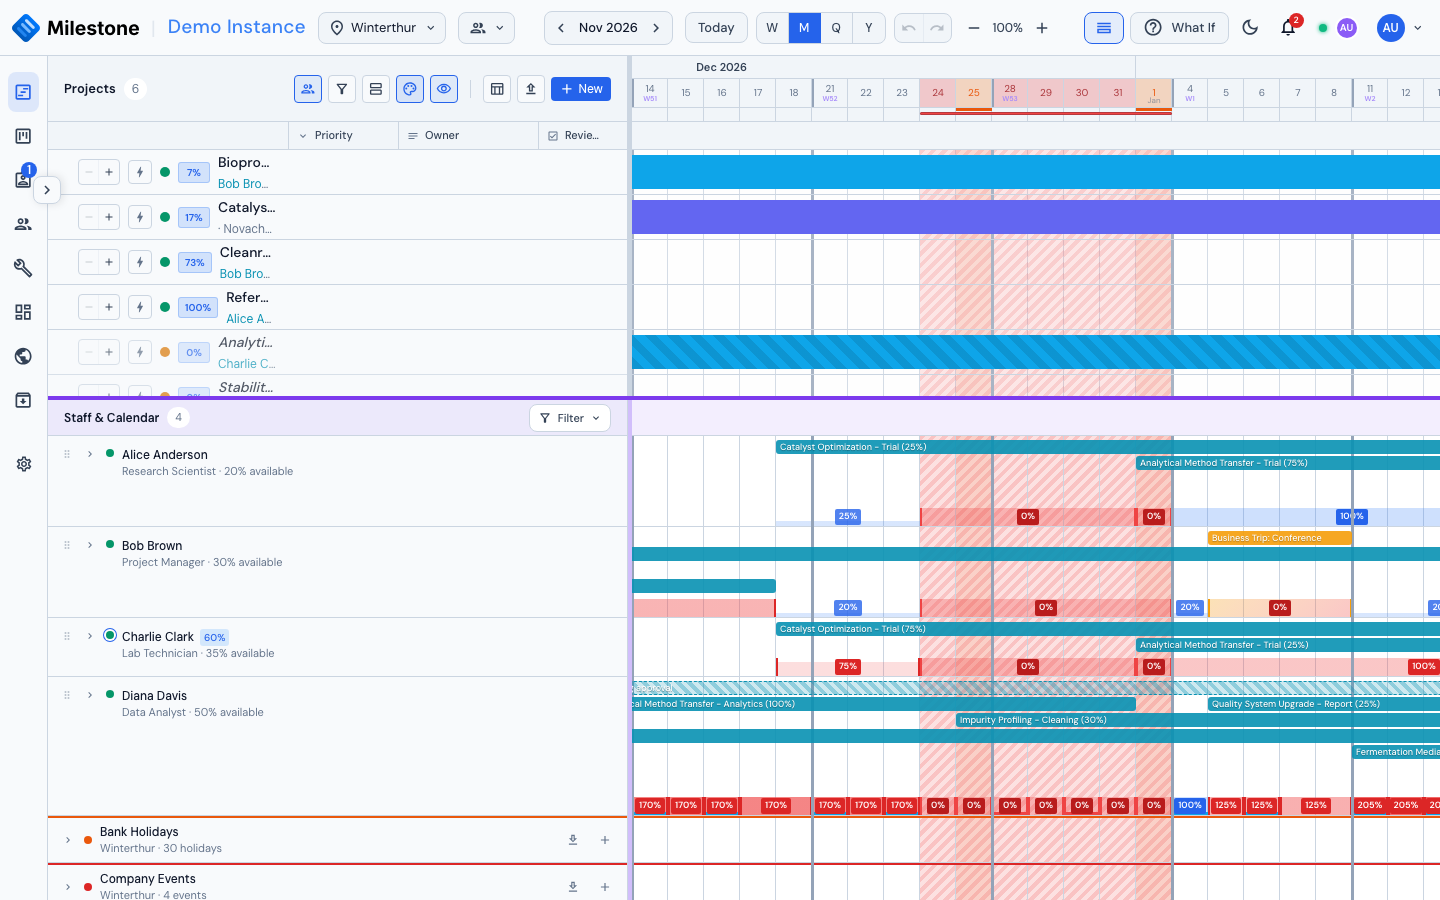
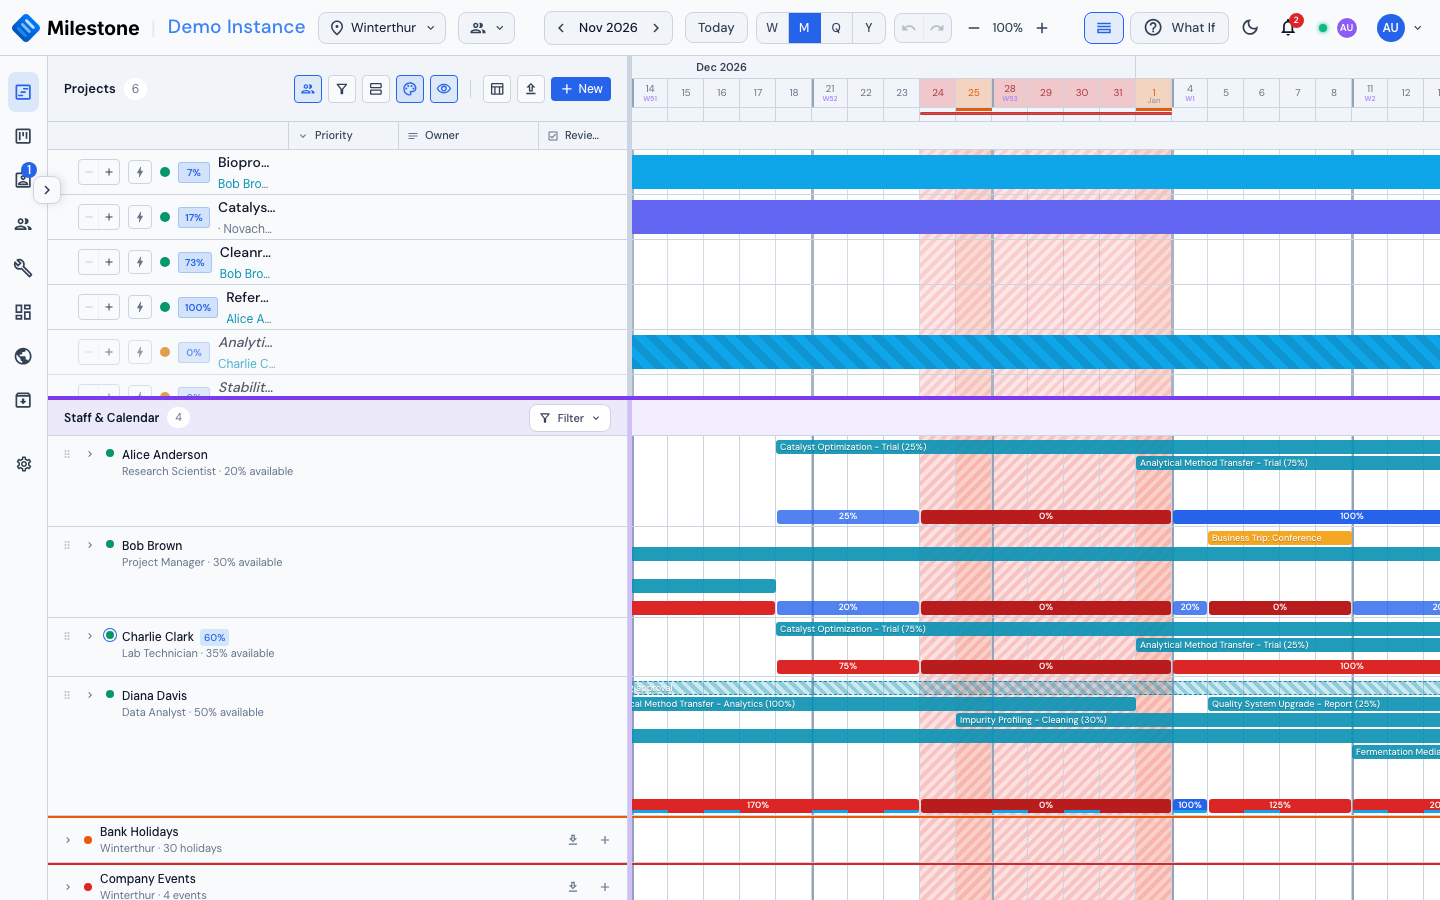
Re-shoot the month heatmap with solid blocks and fold in the review nits
The staff-heatmap-month shot now shows the solid blocks of at most 10 days,
Home Office underlines inside them and the week band under every block.

From the whole-branch review:
- CHANGELOG 2.5.0: the visible weekend change (blank weekend cells, the
  "Weekend" badge, the Gantt's work days) gets its own Changed line, apart
  from the Show Weekends hint rewording.
- instance_settings.py says "case-insensitive true", like the client read.
- capture.py / README: the restore writes back what GET /settings reported,
  so an instance without a row ends with an explicit show_weekends=true.
- Two trail learnings: the weekends flag is read case-insensitively on both
  sides (superseding the earlier "=== 'true'"), and the Staff runs are solid
  blocks with the week band in the grid layer (Vincent's design call).

diff --git a/app/services/instance_settings.py b/app/services/instance_settings.py
@@ -17,8 +17,9 @@ turned off takes away from everyone, admins included (``PermissionSet``'s
 
 ``weekend_working_days`` (2.5.0, *Weekends are working days*) is a boolean
 but **not a switch** in that sense: it is off by default, so it is on only
-when its row reads ``true`` (``weekends_working_from``: ``value.strip().lower()
-== "true"``; the client's ``selectWeekendsWorking`` compares with ``'true'``).
+when its row reads a case-insensitive ``true`` (``weekends_working_from``:
+``value.strip().lower() == "true"``; the client's ``selectWeekendsWorking``
+reads it the same way).
 A missing, empty or malformed row keeps Monday to Friday.
 
 Import-light like app/services/permissions.py: the model is imported inside
@@ -292,8 +293,9 @@ def flag_enabled(value: str | None) -> bool:
 
 def weekends_working_from(value: str | None) -> bool:
     """
-    Whether the stored ``weekend_working_days`` is on: only a row reading
-    ``true`` (no row, or anything else: off -- not a switch, see above).
+    Whether the stored ``weekend_working_days`` is on: only a row reading a
+    case-insensitive ``true``, spaces trimmed (no row, or anything else: off
+    -- not a switch, see above).
     """
     return value is not None and value.strip().lower() == "true"
 

diff --git a/scripts/screenshots/capture.py b/scripts/screenshots/capture.py
@@ -1233,9 +1233,12 @@ def _year_end_shutdown_start() -> date:
 def shot_staff_heatmap_month(context: BrowserContext) -> None:
     """The Gantt with the Staff & Calendar panel open at month zoom and
     weekends hidden (show_weekends set to false through the API for the shot,
-    restored afterwards): consecutive days with the same allocation form one
-    block, a wider band marks the start of each week, and the seeded Year-end
-    shutdown closure is in view. Fresh context: the collapsed sidebar is a
+    then written back with the value GET /settings reported -- that includes
+    the default, so an instance without a row ends with an explicit
+    show_weekends=true, which reads the same): consecutive days with the same
+    allocation form solid blocks of at most 10 days, Home Office days are
+    underlined, a wider band between the blocks marks the start of each week,
+    and the seeded Year-end shutdown closure is in view. Fresh context: the collapsed sidebar is a
     persisted preference and must not leak into the other shots; the panel
     sizes are dragged (component state, not persisted)."""
     fresh = context.browser.new_context(

diff --git a/docs/developer-guide/frontend-architecture.md b/docs/developer-guide/frontend-architecture.md
@@ -106,7 +106,7 @@ All backend↔frontend field mapping is centralized. The frontend model is mostl
 | `useCtrlScrollZoom` | Ctrl+wheel zoom keeping the date under the cursor fixed |
 | `useTimelinePosition` | Where a timeline opens and keeps its place (Gantt `Timeline`, standalone Staff / Equipment views): opens on `viewStore.timelineAnchorDate` (the left-edge date, `openingScrollLeft` / `scrollLeftForDate` / `leftEdgeDate` in `gantt/utils/timeline.ts`) or on today; the mount writes nothing, and a mount unmounted before its frame cancels it — a debounced scroll (200 ms), a navigation, the Today button (`anchorAt(scrollLeft)`) or a cell-set change of a visible pane writes the anchor; a view-mode or weekend switch keeps the left-edge date (a hidden weekend day falls to the Monday). `onScroll` goes in the pane's scroll handler. Import from `@/hooks/useTimelinePosition` |
 | `useScrollSync` | Bidirectional vertical scroll sync between two elements (used by GanttContainer and the Staff/Equipment/CrossSite/Archived views). Three behaviours: no echo (a write remembers the value and ignores the follower's matching `scroll` event, so the follower never snaps the source back), a non-passive `wheel` handler that moves both panes in the same frame (Ctrl+wheel and horizontal deltas are left alone), and equalised scroll range — it measures both panes' natural `scrollHeight - clientHeight` and pads the shorter one (`ResizeObserver`, `window` resize fallback), which replaced the fixed 8 px bottom padding that only matched a classic horizontal scrollbar |
-| `useWorkloadCalculation` | Per-cell staff workload for the Staff heatmap (allocations — pending bookings excluded —, vacations incl. recurring, visual states). Only absences whose type `counts_as_unavailable` (or untyped ones) zero capacity. An optional closure lookup (`ClosureLookup`, usually `getClosureOn` bound to the person's sites) zeroes capacity on site-closure days → `vacation`/`conflict` state, `closureName`/`closureColor`, tooltip *Site closed: …*. A day that is no working day (`isWorkingDay(dateStr, weekendsWorking)`, the last argument from `selectWeekendsWorking`; decided on `dateStr`) is `nonworking` before anything else — precedence nonworking > absence / closure > booking — and is drawn as nothing (no badge, no *Available*; the weekend tint stays). `workloadRuns(cells, dates)` (pure) merges index-adjacent cells that read the same — `workloadLabel` (badge), state, the colour of an absence/closure block and tooltip — into `WorkloadRun`s (`from`, `to`, `workload`, `tooltip`, `startDate`, `endDate`, `availableAbsenceDays`), skipping cells that draw nothing; an available absence (Home Office) does not split a run: outside an absence/closure block it is left out of the key and the tooltip and listed in `availableAbsenceDays` (`index`, `date`, `color`, `label`); `chunkRuns(runs, dates, MAX_RUN_CELLS)` (pure; `MAX_RUN_CELLS = 10`) cuts a longer run into pieces of at most 10 cells (23 → 10, 10, 3), each with its own dates and Home Office days. `StaffRow` draws one solid block per piece (hidden weekends join a run: adjacency is by index): the state's colour on the whole block (`partial` / `full` blue, `overloaded` red, `conflict` red-hover, `vacation` the absence or closure colour), the label in `--text-on-accent`, 14 px tall, rounded, inset 1 px in its cells (2 px between blocks), one `.availableAbsenceDay` underline per Home Office day inside it and those days named in its title. There is no translucent fill any more |
+| `useWorkloadCalculation` | Per-cell staff workload for the Staff heatmap (allocations — pending bookings excluded —, vacations incl. recurring, visual states). Only absences whose type `counts_as_unavailable` (or untyped ones) zero capacity. An optional closure lookup (`ClosureLookup`, usually `getClosureOn` bound to the person's sites) zeroes capacity on site-closure days → `vacation`/`conflict` state, `closureName`/`closureColor`, tooltip *Site closed: …*. A day that is no working day (`isWorkingDay(dateStr, weekendsWorking)`, the last argument from `selectWeekendsWorking`; decided on `dateStr`) is `nonworking` before anything else — precedence nonworking > absence / closure > booking — and is drawn as nothing (no badge, no *Available*; the weekend tint stays). `workloadRuns(cells, dates)` (pure) merges index-adjacent cells that read the same — `workloadLabel` (badge), state, the colour of an absence/closure block and tooltip — into `WorkloadRun`s (`from`, `to`, `workload`, `tooltip`, `startDate`, `endDate`, `availableAbsenceDays`), skipping cells that draw nothing; two things do not split a run: an available absence (Home Office, also on a closure day), left out of the key and the tooltip and listed in `availableAbsenceDays` (`index`, `date`, `color`, `label`), and the amount booked during a closure or absence (every such day reads *0%*; the run's tooltip gives the amount or its range, *50–170%*); `chunkRuns(runs, dates, MAX_RUN_CELLS)` (pure; `MAX_RUN_CELLS = 10`) cuts a longer run into pieces of at most 10 cells (23 → 10, 10, 3), each with its own dates and Home Office days. `StaffRow` draws one solid block per piece (hidden weekends join a run: adjacency is by index): the state's colour on the whole block (`partial` / `full` blue, `overloaded` red, `conflict` red-hover, `vacation` the absence or closure colour), the label in `--text-on-accent`, 14 px tall, rounded, inset 1 px in its cells (2 px between blocks), one `.availableAbsenceDay` underline per Home Office day inside it and those days named in its title. There is no translucent fill any more |
 | `useEquipmentOverlaps` / `useEquipmentTodayStatus` | Equipment double-booking detection / today-status (`blocked` > `booked` > available) — two hooks in one file |
 | `useProjectFilter` | `useSiteProjectFilter()` → `{siteId, siteFields, allSiteFields, siteTags, allSiteTags, filter, activeCount}` (the current site's `viewStore.projectFilters` entry, shared by the Gantt, the Kanban board and `ProjectFilterDropdown`; `site*` = options narrowed by the team filter, `allSite*` = what projects resolve against; ids of items/tags deleted or re-scoped away are ignored on read and pruned on the next write) + `useFilteredProjects(projects)` |
 | `useTeamFilter` | `useTeamFilter()` — the current site's header team filter (`viewStore.teamFilters`, keyed like `projectFilters`; `null` = Whole site) with `projectMatches` / `staffMatches` / `equipmentMatches` / `eventMatches` / `tagMatches` / `optionMatches` (field items, the tag rule), shared by `TeamSelector`, the views, the pickers and the Filter options. Its options are the site's **active** teams (stale ids ignored, pruned on the next write), but scoping considers **all** teams, inactive ones included — equipment limited only to an inactive team is hidden under any team filter. Plus `useTeamFilteredProjects(projects)` and `useTeamFilteredCompanyEvents()` (the current site's events and their date Set, narrowed — every timeline and the Staff view's Company Events row read it). Pure predicates live in `utils/teams.ts` |

diff --git a/scripts/screenshots/README.md b/scripts/screenshots/README.md
@@ -170,7 +170,7 @@ the default General section.
 | `settings-audit-log` | `settings-audit-log.png` | Settings → General → Data management → *Open audit log*: the log, newest entries first. When the newest 12 rows cover fewer than three categories (a fresh seed holds only sign-ins), it serves a canned page of varied rows through `page.route` — nothing is written |
 | `settings-audit-log-entry` | `settings-audit-log-entry.png` | The same audit log sub-view, the *Entry detail* dialog of the newest *User updated* row with its Changes table (the same canned fallback, also used when the first page holds no `admin.user.updated` row) |
 | `settings-general-retention` | `settings-general-retention.png` | Settings → General scrolled to *Data management*: the *Audit log* row (retention hint, *Open audit log*), the retention field and its switch |
-| `staff-heatmap-month` | `staff-heatmap-month.png` | The Gantt chart with the Staff & Calendar panel at **month** zoom and weekends hidden (`show_weekends` set to `false` through the API for the shot and restored afterwards): merged allocation blocks, the band before each Monday and the seeded *Year-end shutdown* closure (the view starts ten days before it). Fresh context: it collapses the sidebar, narrows the project panel and raises the Staff panel |
+| `staff-heatmap-month` | `staff-heatmap-month.png` | The Gantt chart with the Staff & Calendar panel at **month** zoom and weekends hidden (`show_weekends` set to `false` through the API for the shot, then written back with the value `GET /settings` reported — an instance without a row ends with an explicit `true`, which reads the same): solid allocation blocks of at most 10 days, Home Office underlines, the band before each Monday and the seeded *Year-end shutdown* closure (the view starts ten days before it). Fresh context: it collapses the sidebar, narrows the project panel and raises the Staff panel |
 | `settings-general-gantt` | `settings-general-gantt.png` | Settings → General scrolled to *Display*: Default View, Week Starts On, then the *Gantt Chart* block with *Show Weekends* and *Weekends are working days* and their hints |
 
 Project bar colours are a per-user browser preference (*Colour by*), not

diff --git a/docs/user-guide/staff-management.md b/docs/user-guide/staff-management.md
@@ -24,7 +24,7 @@ The right side shows a horizontal timeline with:
 
 - **Assignment bars** — Colored by project, stacked when overlapping; a booking still [awaiting approval](#booking-yourself-when-approval-is-required) is hatched and does not count towards the workload
 - **Absence blocks** — Drawn in the color of their [absence type](vacations.md#absence-types). Only types that count as unavailable reduce capacity; a Home Office day is shown but leaves the person available
-- **Workload indicator** — Solid blocks under each person's bars showing their total utilization (week and month zoom). Consecutive days with the same allocation — or the same absence or closure — are one solid block with one label, also across hidden weekends; long runs are cut into blocks of at most 10 days so a label is always in view. Home Office days show as an underline inside the block. Hover a block for the details, its dates and its Home Office days
+- **Workload indicator** — Solid blocks under each person's bars showing their total utilization (week and month zoom). Consecutive days with the same allocation — or the same absence or closure — are one solid block with one label, also across hidden weekends; long runs are cut into blocks of at most 10 days so a label is always in view. Home Office days show as an underline inside the block, and work booked during a closure or an absence is one *0%* block whatever the amount (its tooltip gives the amount or the range). Hover a block for the details, its dates and its Home Office days
 - **Site closures** — Company events marked as closures make the staff of their sites unavailable; see [below](#site-closures-in-the-workload)
 - **Event strip** — The thin strip under the day labels of the timeline header lists every bank holiday and company event of a day, as on the [Gantt chart](gantt-charts.md#holidays-and-events-on-the-timeline)
 - **Bank holidays and company events** — Expandable rows at the bottom. Admins and superusers can click an entry to edit it, or **+** to add one, in [Settings](settings.md#bank-holidays); changes appear for other users straight away

diff --git a/.trail/learnings/2026-11-06-staff-runs-solid-blocks-claude.md b/.trail/learnings/2026-11-06-staff-runs-solid-blocks-claude.md
@@ -1,0 +1,21 @@
+---
+title: "Staff overview runs are solid blocks of at most 10 days; the week band always lives in the grid layer"
+author: Claude
+date: 2026-11-06
+branch: feat/weekends-and-polish
+id: l-b285d5f3
+scope: repo
+status: active
+src: agent
+touches:
+  - frontend/src/components/views/StaffView/StaffTimelineBody.tsx
+  - frontend/src/components/views/StaffView/StaffTimelineBody.module.css
+  - frontend/src/hooks/useWorkloadCalculation.ts
+---
+
+## Decided
+- Vincent rejected the translucent per-cell fill ("pale overlay"). A run of equal days is now **solid blocks** in the badge palette, 14 px tall, with the label in `--text-on-accent`. `chunkRuns` cuts a run into pieces of at most `MAX_RUN_CELLS = 10` cells so a label is always on screen. Home Office days do not split a run, closure days included: each one gets an underline inside the block. Conflict days booking different amounts do not split it either. They all read "0%", and the tooltip shows the range ("50–170%"). In the first re-shoot, Diana's closure week was seven single "0%" blocks.
+- **One rule for the week band**: it lives in each timeline's grid layer, under every bar, block and label. That covers the Staff body too, whose bands are in its `.grid`.
+
+## Ruled out
+- A `.weekBands` overlay above the heatmap (the first fix wave). It painted across the badges ("10|0%"). Giving the badge a z-index cannot fix that while the block has its own z-index, because the block is then a stacking context. Vincent also wanted the band to sit "always under", never sometimes over.

diff --git a/CHANGELOG.md b/CHANGELOG.md
@@ -14,7 +14,8 @@ and this project adheres to [Semantic Versioning](https://semver.org/).
 - Staff overview: consecutive days with the same allocation are drawn as one solid block instead of one pale cell per day, cut every 10 days so a label is always in view; a Home Office day stays inside the block, underlined.
 - Timeline: hovering a date number shows the same holiday / event bubble as hovering the event strip below it.
 - Timeline: when weekends are hidden, a clearer separator marks the start of each week, always under the bars and blocks.
-- Settings → General → Show Weekends now says it only shows or hides the Saturday and Sunday columns; whether they count as working days is the new setting below it. While weekends are not working days, the Staff overview, the availability badges ("Weekend") and the Gantt's work days no longer count Saturday and Sunday, like the dashboards.
+- Settings → General → Show Weekends now says it only shows or hides the Saturday and Sunday columns; whether they count as working days is the new setting below it.
+- While Weekends are working days is off (the default), Saturday and Sunday are blank in the Staff overview's workload, the availability badge reads "Weekend" on those days, and the Gantt's work days leave them out, like the dashboards.
 
 ## [2.4.0] - 2026-11-05
 

diff --git a/.trail/learnings/2026-11-06-weekends-flag-case-insensitive-claude.md b/.trail/learnings/2026-11-06-weekends-flag-case-insensitive-claude.md
@@ -1,0 +1,19 @@
+---
+title: "Weekends flag read case-insensitively on both sides (2.5.0 fix wave)"
+author: Claude
+date: 2026-11-06
+branch: feat/weekends-and-polish
+id: l-8b5b78b6
+scope: repo
+status: active
+src: agent
+touches:
+  - frontend/src/utils/instanceSettings.ts
+  - app/services/instance_settings.py
+---
+
+## Decided
+- `selectWeekendsWorking` now reads `weekend_working_days?.trim().toLowerCase() === 'true'`, the same as the backend's `weekends_working_from` (`value.strip().lower() == "true"`). This supersedes the `=== 'true'` in the 2026-11-06 "Weekends are working days" learning. Before, a hand-written `True` row counted weekends in the dashboards but not in the Staff heatmap. The flag is still **not a switch**: a missing or stray row reads as off.
+
+## Watch out
+- The PUT only ever stores `true` / `false`, so the mismatch needed a hand-edited row. Keep the two reads identical anyway: they are two halves of the working-day mirror.
